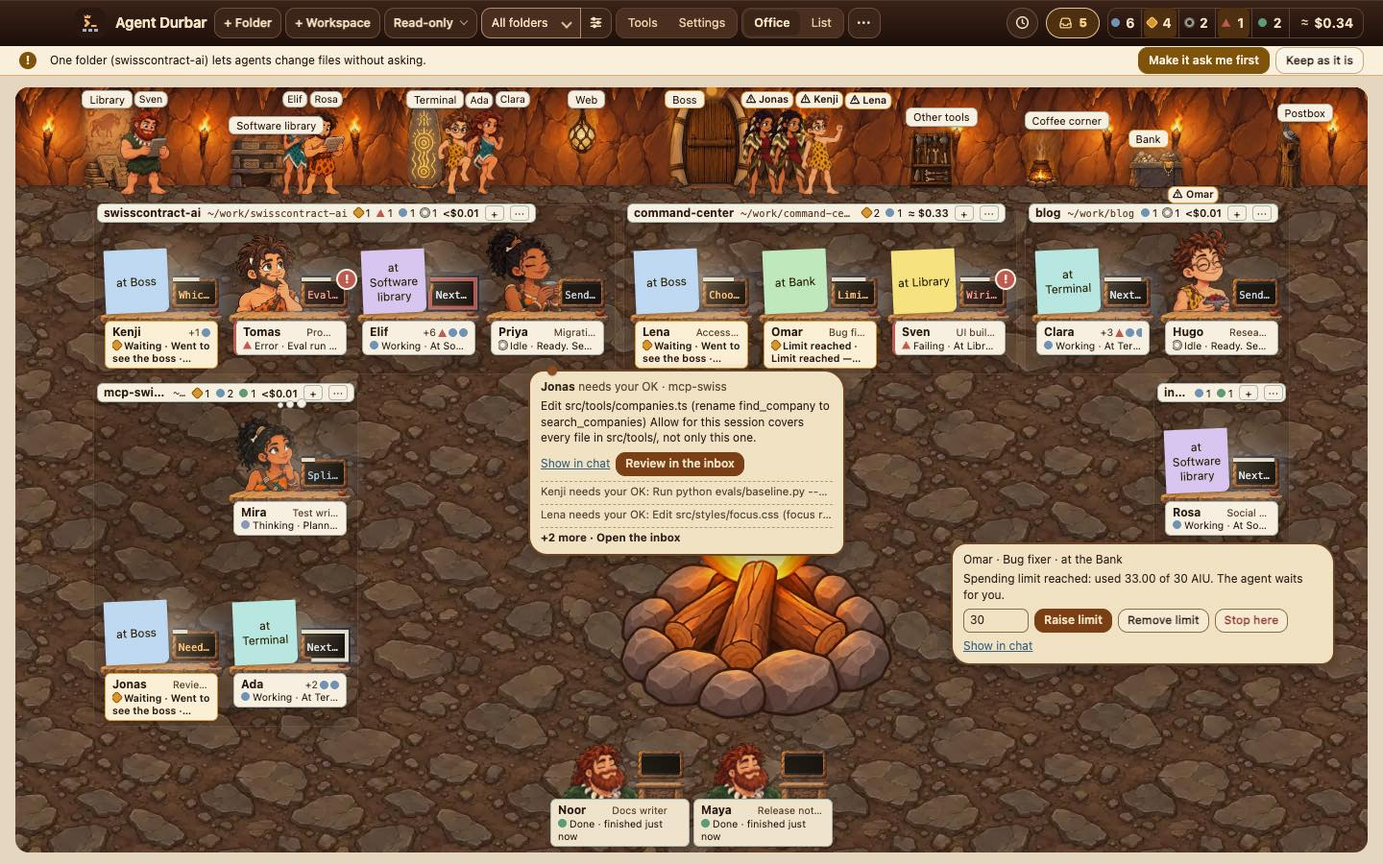
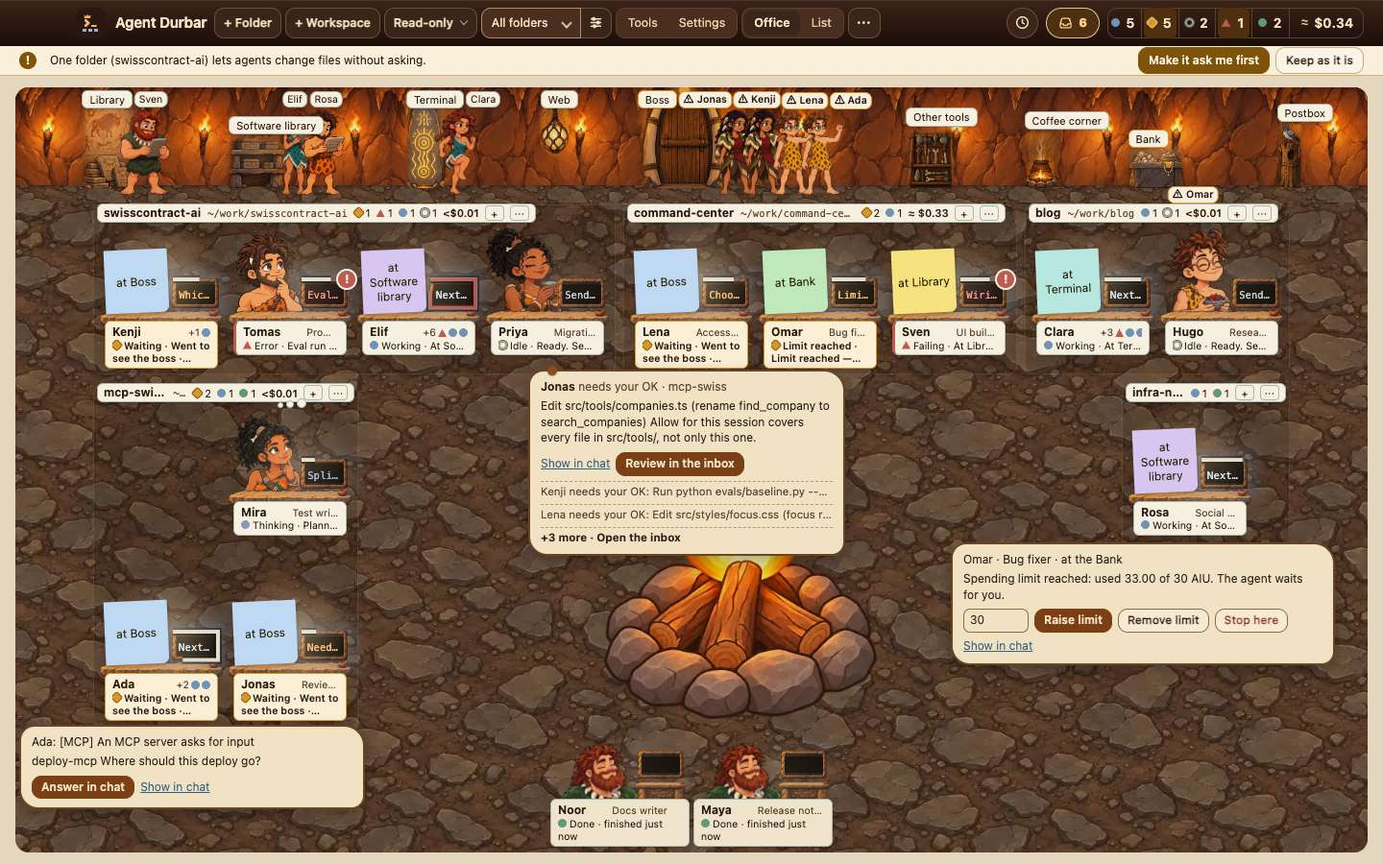
Cave circle: a sign keeps its + and menu inside it, rooms widen to their sign, the ladder judges the circle with its signs; reachability step in the moments driver (T174, review finding on #1764)

diff --git a/src/shared/realoffice-arrangements.ts b/src/shared/realoffice-arrangements.ts
@@ -1,7 +1,7 @@
 /** Spec 102 FR-227, FR-256 (T202, T203, T205): where the people sit. `rows` is `realLayout`, untouched; `aisles` is the Retro arcade hall:
  *  staggered aisles of cabinets in an integer pixel scale `g`. Pure, no DOM, nothing draws it yet (RA3). The numbers marked "provisional"
  *  come from the mockup and the art by eye and are replaced by measured ones (T201's `faceBox`, T207's frame sizes). */
-import { lobbyBand, lobbyRange, loungeRows, realLayout, rowGeom, deskStation, shownDesks, signWidth, signMin, splitLounge, BIG_MAX, helpH, helpCols, helpShown, FACE_U, PW, SR, PAD, ZGAP, STRIP, U_MAX, type DeskBox, type Layout, type RealAgent, type RealMeta, type RealModel, type RealState, type Rect, type ZoneBox } from './realoffice-layout';
+import { lobbyBand, lobbyRange, loungeRows, realLayout, rowGeom, deskStation, shownDesks, signWidth, signMin, signShortMin, splitLounge, BIG_MAX, helpH, helpCols, helpShown, FACE_U, PW, SR, PAD, ZGAP, STRIP, U_MAX, type DeskBox, type Layout, type RealAgent, type RealMeta, type RealModel, type RealState, type Rect, type ZoneBox } from './realoffice-layout';
 
 export const ARRANGEMENTS = ['rows', 'circle', 'aisles'] as const;
 export type Arrangement = (typeof ARRANGEMENTS)[number];
@@ -306,6 +306,13 @@ export function circleWith(model: RealModel, view: { w: number; h: number }, met
   const rowsOf = (i: number, j: number, w: number): number => runs(i, j).reduce((s, [p, q]) => s + Math.ceil((q - p) / w), 0);
   const sideH = (i: number, j: number, w: number, b: number): number => (j > i ? rowsOf(i, j, w) * b + (runs(i, j).length - 1) * ZGAP : 0);
   const zonesIn = (i: number, j: number): number => (j > i ? seats[j - 1].fx - seats[i].fx + 1 : 0);
+  /** the least width a folder's room may have so its sign keeps its + and menu (FR-231): the short sign's measured width (`signShortMin`), at most the whole sign's (`signMin`) */
+  const needW = (fx: number): number => { const f = folders[fx], s = signs && Object.prototype.hasOwnProperty.call(signs, f.id) ? signs[f.id] : { counts: 1 }; return signShortMin(s.counts) + 8; };
+  /** a zone of `c` desk columns holding folder `fx`, at desk width `Sw`: the desks' width, or the sign's if that is wider */
+  const zoneW = (fx: number, c: number, Sw: number): number => Math.max(c * Sw + 8, needW(fx));
+  /** the width of the top row over seats [i, j): its zones and the gaps between them; `sideBw` the width of a side over [i, j), `w` desks wide: the widest of its zones, never under the desks' */
+  const topW = (i: number, j: number, Sw: number): number => { const r = runs(i, j); return r.reduce((a, [p, q]) => a + zoneW(seats[p].fx, q - p, Sw), 0) + ZGAP * Math.max(0, r.length - 1); };
+  const sideBw = (i: number, j: number, w: number, Sw: number): number => runs(i, j).reduce((a, [p, q]) => Math.max(a, zoneW(seats[p].fx, Math.min(w, q - p), Sw)), w * Sw + 8);
   const rowOf = (u: number) => ({ zones: folders, n: k, Sw: (PW + SR) * u, scrH: 0, strip: 0 });
   const needOf = (withFocus: boolean): number => (withFocus ? CIRCLE_FOCUS_MIN.h + PAD : 0);
   /* the seats at unit u: the split into a left side, a top row and a right side (k >= 3: a ring, each of them used) that fits, the most even and narrowest first; null when none does */
@@ -318,8 +325,8 @@ export function circleWith(model: RealModel, view: { w: number; h: number }, met
         const hl = sideH(0, nl, wl, b);
         if (hl > avail) break;
         for (let nr = ring ? 1 : 0; nl + nr <= k - 1 || (k === 1 && nl + nr === 0); nr++) {
-          const nt = k - nl - nr, zt = zonesIn(nl, nl + nt);
-          if (Math.max(nt * Sw + zt * 8 + ZGAP * (zt - 1), ring ? (wl + wr) * Sw + 16 + 2 * ZGAP + CIRCLE_FOCUS_MIN.w : 0) > W - 2 * PAD) continue; /* the row, and the two sides with the focus between them, fit the width */
+          const nt = k - nl - nr;
+          if (Math.max(topW(nl, nl + nt, Sw), ring ? sideBw(0, nl, wl, Sw) + sideBw(nl + nt, k, wr, Sw) + 2 * ZGAP + CIRCLE_FOCUS_MIN.w : 0) > W - 2 * PAD) continue; /* the row, and the two sides with the focus between them, fit the width */
           const colH = Math.max(hl, sideH(nl + nt, k, wr, b)), used = b + ZGAP + Math.max(colH, needOf(withFocus));
           if (used > avail) continue;
           const score = -Math.abs(nl - nr) * 1e4 - colH - (wl + wr - 2) * 5e3;
@@ -338,8 +345,8 @@ export function circleWith(model: RealModel, view: { w: number; h: number }, met
     else { /* nothing fits at CIRCLE_U_MIN: as many in the top row as its width holds, the rest in two sides of the widest kind, and the floor scrolls */
       const Sw = (PW + SR) * u, b = rowGeom(meta, rowOf(u), u).bottom, ring = k >= 3;
       let nt = ring ? k - 2 : k;
-      const topW = (n: number): number => { const l = Math.ceil((k - n) / 2); return n * Sw + zonesIn(l, l + n) * 8 + ZGAP * (zonesIn(l, l + n) - 1); };
-      while (nt > 1 && topW(nt) > W - 2 * PAD) nt--;
+      const topAt = (n: number): number => { const l = Math.ceil((k - n) / 2); return topW(l, l + n, Sw); };
+      while (nt > 1 && topAt(nt) > W - 2 * PAD) nt--;
       const nl = ring ? Math.ceil((k - nt) / 2) : 0, nr = k - nt - nl;
       cfg = { nl, nt, nr, wl: 1, wr: 1, colH: Math.max(sideH(0, nl, 1, b), sideH(nl + nt, k, 1, b)) };
     }
@@ -350,11 +357,12 @@ export function circleWith(model: RealModel, view: { w: number; h: number }, met
   const spare = fits ? Math.max(0, Ho - Lb - used) : 0, y0 = Lb + spare / 3;
   const zones: ZoneBox[] = [], part: Record<number, number> = {};
   /** one zone of consecutive seats [i, j): `at` gives each seat's slot corner; the box is their union and the sign sits on its top edge */
-  const zoneOf = (i: number, j: number, at: (n: number) => { x: number; y: number }): void => {
+  const zoneOf = (i: number, j: number, at: (n: number) => { x: number; y: number }, wide?: { x: number; w: number }): void => {
     const f = folders[seats[i].fx], desks: DeskBox[] = [];
     for (let n = i; n < j; n++) { const p = at(n), d = deskStation(meta, seats[n].a, p.x, p.y, Sw, u, g, false, 0, 0, 0); d.slot.h = b; desks.push(d); }
-    const x = Math.min(...desks.map((d) => d.slot.x)) - 4, top = Math.min(...desks.map((d) => d.slot.y)), bot = Math.max(...desks.map((d) => d.slot.y + d.slot.h));
-    const zw = Math.max(...desks.map((d) => d.slot.x + d.slot.w)) + 4 - x;
+    let x = Math.min(...desks.map((d) => d.slot.x)) - 4, top = Math.min(...desks.map((d) => d.slot.y)), bot = Math.max(...desks.map((d) => d.slot.y + d.slot.h));
+    let zw = Math.max(...desks.map((d) => d.slot.x + d.slot.w)) + 4 - x;
+    if (wide) { x = wide.x; zw = wide.w; } /* the room is the sign's width where the desks are narrower (FR-231): the desks keep their place in it */
     const s = signs && Object.prototype.hasOwnProperty.call(signs, f.id) ? signs[f.id] : { name: f.id, path: '', counts: 1 };
     const sw = signWidth(s.name, s.path, s.counts, zw);
     const hands = desks.filter((d) => d.person && (d.state === 'waiting' || d.state === 'limit') && d.person.y < top + STRIP).map((d) => [d.person!.x, d.person!.x + d.person!.w * 0.6]);
@@ -364,31 +372,31 @@ export function circleWith(model: RealModel, view: { w: number; h: number }, met
     sx = Math.max(x + 4, Math.min(sx, x + zw - 4 - sw));
     zones.push({ id: f.id, part: (part[seats[i].fx] = (part[seats[i].fx] || 0) + 1), box: { x, y: top + 2, w: zw, h: bot - top - 2 }, sign: { x: sx, y: top + 1, w: sw, h: 20 }, desks, ...(signMin(s.counts) > zw - 8 ? { signShort: true } : {}) });
   };
-  const bw = (w: number): number => w * Sw + 8, ringed = k >= 3 && withFocus;
-  const rowW = k ? cfg!.nt * Sw + zonesIn(cfg!.nl, cfg!.nl + cfg!.nt) * 8 + ZGAP * (zonesIn(cfg!.nl, cfg!.nl + cfg!.nt) - 1) : 0;
+  const ringed = k >= 3 && withFocus;
+  const rowW = k ? topW(cfg!.nl, cfg!.nl + cfg!.nt, Sw) : 0, bwL = k ? sideBw(0, cfg!.nl, cfg!.wl, Sw) : 0, bwR = k ? sideBw(cfg!.nl + cfg!.nt, k, cfg!.wr, Sw) : 0;
   /* the ring spans the row, or the two sides with the focus between them when that is wider (a ring of a few people); the sides stand at its two ends, the row in the middle */
-  const span = ringed ? Math.max(rowW, (cfg!.wl + cfg!.wr) * Sw + 16 + 2 * ZGAP + CIRCLE_FOCUS_MIN.w) : rowW, rx0 = PAD + (W - 2 * PAD - span) / 2, rx1 = rx0 + span;
+  const span = ringed ? Math.max(rowW, bwL + bwR + 2 * ZGAP + CIRCLE_FOCUS_MIN.w) : rowW, rx0 = PAD + (W - 2 * PAD - span) / 2, rx1 = rx0 + span;
   if (k) {
     const { nl, nt, nr, wl, wr } = cfg!, yc = y0 + b + ZGAP;
     /* the left side: the first seat at its foot, upwards; a seat's column snakes with its row (outer, then inner, then outer again) */
     let yb = yc + sideH(0, nl, wl, b), row = 0;
     for (const [i, j] of runs(0, nl)) {
       const rows = Math.ceil((j - i) / wl), r0 = row; row += rows;
-      zoneOf(i, j, (n) => { const r = Math.floor((n - i) / wl), c0 = (n - i) % wl, c = (r0 + r) % 2 ? wl - 1 - c0 : c0; return { x: rx0 + 4 + c * Sw, y: yb - (r + 1) * b }; });
+      zoneOf(i, j, (n) => { const r = Math.floor((n - i) / wl), c0 = (n - i) % wl, c = (r0 + r) % 2 ? wl - 1 - c0 : c0; return { x: rx0 + 4 + c * Sw, y: yb - (r + 1) * b }; }, { x: rx0, w: bwL });
       yb -= rows * b + ZGAP;
     }
     let x = rx0 + (span - rowW) / 2;
-    for (const [i, j] of runs(nl, nl + nt)) { const x0 = x; zoneOf(i, j, (n) => ({ x: x0 + 4 + (n - i) * Sw, y: y0 })); x += (j - i) * Sw + 8 + ZGAP; }
+    for (const [i, j] of runs(nl, nl + nt)) { const x0 = x, zw = zoneW(seats[i].fx, j - i, Sw); zoneOf(i, j, (n) => ({ x: x0 + (zw - (j - i) * Sw) / 2 + (n - i) * Sw, y: y0 }), { x: x0, w: zw }); x += zw + ZGAP; }
     let yr = yc; row = 0;
     for (const [i, j] of runs(nl + nt, k)) {
       const rows = Math.ceil((j - i) / wr), r0 = row, y1 = yr; row += rows;
-      zoneOf(i, j, (n) => { const r = Math.floor((n - i) / wr), c0 = (n - i) % wr, c = (r0 + r) % 2 ? wr - 1 - c0 : c0; return { x: rx1 - bw(wr) + 4 + c * Sw, y: y1 + r * b }; });
+      zoneOf(i, j, (n) => { const r = Math.floor((n - i) / wr), c0 = (n - i) % wr, c = (r0 + r) % 2 ? wr - 1 - c0 : c0; return { x: rx1 - bwR + 4 + c * Sw, y: y1 + r * b }; }, { x: rx1 - bwR, w: bwR });
       yr += rows * b + ZGAP;
     }
   }
   const lb = lobbyBand(meta, model.places, W, Lb);
   const height = fits ? H0 : Math.ceil(Lb + used + PAD + R);
-  const fx0 = ringed ? rx0 + bw(cfg!.wl) + ZGAP : PAD, fx1 = ringed ? rx1 - bw(cfg!.wr) - ZGAP : W - PAD, fy = y0 + b + ZGAP;
+  const fx0 = ringed ? rx0 + bwL + ZGAP : PAD, fx1 = ringed ? rx1 - bwR - ZGAP : W - PAD, fy = y0 + b + ZGAP;
   const lay: Layout = { u, big: false, lobbyH: Lb, floorH: height - Lb, width: W, height, scroll: !fits || Ho + R > H0 + 0.5, faceH: FACE_U * u, zones, fixtures: lb.fixtures, floorStrip: lb.floorStrip, helpRows: 0 };
   /* the focus box, when it holds `CIRCLE_FOCUS_MIN`: with every agent in the lounge, or the ring dropped it to fit, there is none (never a negative height) */
   const focus: Rect = { x: fx0, y: fy, w: fx1 - fx0, h: fits ? Ho - PAD - fy : Math.max(need - PAD, (cfg ? cfg.colH : 0)) };
@@ -399,11 +407,11 @@ export function circleWith(model: RealModel, view: { w: number; h: number }, met
 export const circleLayout = (model: RealModel, view: { w: number; h: number }, meta: RealMeta, signs?: Record<string, { name: string; path: string; counts: number }>): Layout => circleWith(model, view, meta, signs);
 
 /** FR-230: whether `id` fits this floor, on the count of agents only; `leftAt` (the count it last fell back at) makes it return only with two agents fewer, so a seat count at the edge does not flip the room. `rows` always fits. Pure. */
-export function arrangementFits(id: Arrangement, model: RealModel, view: { w: number; h: number }, meta: RealMeta, leftAt?: number): boolean {
+export function arrangementFits(id: Arrangement, model: RealModel, view: { w: number; h: number }, meta: RealMeta, leftAt?: number, signs?: Record<string, { name: string; path: string; counts: number }>): boolean {
   if (id === 'rows') return true;
   const n = model.folders.reduce((s, f) => s + f.agents.length, 0);
   if (leftAt !== undefined && n > leftAt - 2) return false;
-  return !layoutFor(id, model, view, meta).scroll;
+  return !layoutFor(id, model, view, meta, signs).scroll; /* with the signs: a ring whose signs the rooms cannot hold whole (FR-231) does not fit */
 }
 
 /** FR-228's one seam: the arrangement a world names picks the function. `rows` is `realLayout` and nothing else (T167: byte-identical). */
@@ -414,7 +422,7 @@ export function layoutFor(arrangement: Arrangement, model: RealModel, view: { w:
 /** FR-230 (owner, 2026-11-14 13:10 UTC): the ladder `circle` to `rows`. A `circle` that does not fit this floor at the face floor (`arrangementFits`; `leftAt` holds it off until two agents fewer) draws `rows`, so no floor scrolls
  *  with 15 agents because of the arrangement; every other id runs as `layoutFor` says. `ran` is the arrangement that drew. Pure. */
 export function layoutWithFallback(arrangement: Arrangement, model: RealModel, view: { w: number; h: number }, meta: RealMeta, signs?: Record<string, { name: string; path: string; counts: number }>, leftAt?: number): { lay: Layout; ran: Arrangement } {
-  if (arrangement === 'circle' && !arrangementFits('circle', model, view, meta, leftAt)) return { lay: realLayout(model, view, meta, signs), ran: 'rows' };
+  if (arrangement === 'circle' && !arrangementFits('circle', model, view, meta, leftAt, signs)) return { lay: realLayout(model, view, meta, signs), ran: 'rows' };
   return { lay: layoutFor(arrangement, model, view, meta, signs), ran: arrangement };
 }
 

diff --git a/scripts/test-realoffice-circle.ts b/scripts/test-realoffice-circle.ts
@@ -3,7 +3,7 @@
 import * as assert from 'assert';
 import * as fs from 'fs';
 import * as path from 'path';
-import { realLayout, sortDesks, splitLounge, type RealMeta, type RealModel, type RealAgent, type RealState, type Rect, type Layout } from '../src/shared/realoffice-layout';
+import { realLayout, signMin, signShortMin, sortDesks, splitLounge, type RealMeta, type RealModel, type RealAgent, type RealState, type Rect, type Layout } from '../src/shared/realoffice-layout';
 import { ARRANGEMENTS, FACE_FLOOR, arrangementFits, circleLayout, circleWith, layoutFor, layoutWithFallback, isArrangement, monitorProblem, CIRCLE_FOCUS_MIN } from '../src/shared/realoffice-arrangements';
 
 process.exitCode = 1;
@@ -76,9 +76,9 @@ for (const [W, H] of SIZES) for (const f of [1, 4, 15]) for (const lounge of [0,
   cases++;
 }
 // ---- 15 agents fit both rooms with no scroll, at 24 px or more, in 1..13 folders; 14 and 15 folders [KNOWN GAP] (FR-229): pinned, so a change shows ----
-const GAP = [[15], [14, 15]]; /* the folder counts that scroll at 24.0 px: 1440x900, 1280x800 (spec 102 Changes 2026-11-14) */
+const GAP = [[12, 13, 14, 15], [10, 11, 12, 13, 14, 15]]; /* the folder counts that scroll at 24.0 px with every sign three counts wide (SIGNS): 1440x900, 1280x800 (spec 102 FR-231: a room is as wide as its sign's short form; with one count each it is [15] and [14, 15], as before) */
 ROOMS.forEach((s) => { for (let f = 1; f <= 15; f++) assert.strictEqual(mk(15, f, SIZES[s][0], SIZES[s][1]).scroll, GAP[s].includes(f), `15 agents in ${f} folders at ${NAMES[s]}: scroll must be ${GAP[s].includes(f)} (the known gap lists ${GAP[s]})`); });
-for (const s of ROOMS) for (let f = 1; f <= 13; f++) {
+for (const s of ROOMS) for (let f = 1; f <= 15 - GAP[s].length; f++) {
   const [W, H] = SIZES[s], L = mk(15, f, W, H);
   assert.ok(!L.scroll, `15 agents fit ${NAMES[s]} (${f} folders): no scroll`);
   assert.ok(L.faceH >= FACE_FLOOR, `15 agents at ${NAMES[s]}: face ${L.faceH} px, floor ${FACE_FLOOR}`);
@@ -148,6 +148,39 @@ function circleOffenders(manifests: Array<{ file: string; text: string }>): stri
   assert.ok(!names('{"arrangement":"rows"}') && !names('{}'), 'rows and no key are not circle');
   assert.throws(() => names('{"arrangement": circle}', 'worlds/x/world.json'), /worlds\/x\/world\.json is not valid JSON/, 'a manifest that does not parse fails by its path');
 }
+// ---- FR-231 (reviewer's finding on #1764): a sign in the circle is never narrower than its short form (`signShortMin`), and it lies inside its room. Labels: signw, signin, signshort. ----
+const signProblems = (L: Layout, counts: number): string[] => {
+  const out = new Set<string>();
+  for (const z of L.zones) {
+    if (z.sign.w < signShortMin(counts) - 0.01) out.add('signw'); /* narrower than the least that keeps + and the menu inside it */
+    if (!inside(z.sign, { x: z.box.x, y: z.box.y - 2, w: z.box.w, h: z.box.h + 2 })) out.add('signin'); /* the sign sticks out of its room: a neighbour or the focus box could cover it */
+    if ((z.box.w - 8 >= signMin(counts)) === !!z.signShort) out.add('signshort'); /* the whole sign where its room holds signMin, the short form only where it does not */
+  }
+  return [...out];
+};
+{
+  const META_CAVE = { ...readJson('worlds', 'cave', 'world.json'), ...readJson('sets', 'prehistoric', 'set.json') } as unknown as RealMeta;
+  let n = 0;
+  for (const [wn, meta] of [['Photo', META], ['Cave', META_CAVE]] as Array<[string, RealMeta]>) for (const [W, H] of SIZES.slice(0, 2)) for (const agents of [4, 8, 15]) for (const f of [1, 2, 3, 4, 5, 6, 8, 9, 10, 11, 12, 13, 14, 15]) for (const counts of [1, 2, 3]) {
+    if (f > agents) continue;
+    const m = model(agents, f), sg = Object.fromEntries(Array.from({ length: f }, (_, i) => ['f' + i, { name: 'project-' + i, path: '~/work/long/path/to/project-' + i, counts }]));
+    const L = circleLayout(m, { w: W, h: H }, meta, sg), r = layoutWithFallback('circle', m, { w: W, h: H }, meta, sg);
+    if (r.ran === 'circle') { assert.deepStrictEqual(signProblems(r.lay, counts), [], `${wn} ${agents} agents in ${f} folders, ${counts} counts at ${W}x${H}: every sign holds its short form and lies in its room`); n++; }
+    else assert.ok(L.scroll || !arrangementFits('circle', m, { w: W, h: H }, meta, undefined, sg), `${wn} ${agents} in ${f}, ${counts} counts at ${W}x${H}: rows only where the circle cannot hold its signs`);
+    assert.strictEqual(r.ran === 'circle', !L.scroll, `${wn} ${agents} in ${f}, ${counts} counts at ${W}x${H}: the ladder keeps the circle exactly where it does not scroll`);
+  }
+  assert.ok(n > 50, `the sign check ran on ${n} circle layouts`);
+  const m = model(15, 9), sg = SIGNS(9), L = circleLayout(m, { w: 1440, h: 797 }, META_CAVE, sg);
+  assert.deepStrictEqual(signProblems(L, 3), [], 'the layout the sign mutants damage is clean');
+  const kill = (label: string, mut: (x: Layout) => void): void => { const x = clone(L); mut(x); assert.ok(signProblems(x, 3).includes(label), `sign mutant not killed at label "${label}"`); };
+  kill('signw', (x) => { x.zones[1].sign.w = 118; }); /* the 118 px sign of the review: its + and menu fall outside it */
+  kill('signin', (x) => { x.zones[1].sign.x = x.zones[1].box.x + x.zones[1].box.w - 20; });
+  kill('signshort', (x) => { x.zones[1].signShort = !x.zones[1].signShort; });
+  // the cause (mutant of the engine): zones as wide as their desks only, the circle before FR-231, cuts a sign below its short form
+  const sw = (x: Layout): number => Math.min(...x.zones.map((z) => z.sign.w));
+  assert.ok(sw(L) >= signShortMin(3), 'with the rooms the smallest sign is whole');
+  console.log(`circle signs: smallest sign ${sw(L).toFixed(0)} px at 15 agents in 9 folders at 1440x900 (short form needs ${signShortMin(3)} px)`);
+}
 // ---- the ladder circle -> rows (FR-230, owner 2026-11-14 13:10 UTC): 15 agents in 14 and in 15 one-agent folders fall back to rows, no scroll, nothing off the stage ----
 {
   const META_CAVE = { ...readJson('worlds', 'cave', 'world.json'), ...readJson('sets', 'prehistoric', 'set.json') } as unknown as RealMeta;
@@ -163,24 +196,27 @@ function circleOffenders(manifests: Array<{ file: string; text: string }>): stri
   };
   const seen: string[] = [];
   for (const [name, meta] of [['Photo meta', META], ['Cave meta', META_CAVE]] as Array<[string, RealMeta]>) SIZES.slice(0, 2).forEach(([W, H], s) => {
-    for (const f of [1, 4, 8, 12, 13, 14, 15]) {
-      const m = model(15, f), v = { w: W, h: H }, fits = arrangementFits('circle', m, v, meta);
+    for (const f of [1, 4, 8, 9, 10, 11, 12, 13, 14, 15]) {
+      const m = model(15, f), v = { w: W, h: H }, fits = arrangementFits('circle', m, v, meta, undefined, SIGNS(f));
       const r = layoutWithFallback('circle', m, v, meta, SIGNS(f));
       assert.deepStrictEqual(ladder(r, W, fits), [], `${name} ${NAMES[s]}, 15 agents in ${f} folders: ladder ${fits ? 'keeps circle' : 'falls back to rows'}, no scroll, nothing off the stage`);
       assert.strictEqual(fits, !circleLayout(m, v, meta, SIGNS(f)).scroll, `${name} ${NAMES[s]} ${f} folders: fits means the circle does not scroll`);
-      if (f >= 14) seen.push(`${name} ${NAMES[s]} ${f}: ${r.ran}`);
+      if (f >= 9) seen.push(`${name} ${NAMES[s]} ${f}: ${r.ran}`);
       if (!fits) {
         assert.ok(ladder({ lay: circleLayout(m, v, meta, SIGNS(f)), ran: 'circle' }, W, fits).includes('scroll'), `mutant (ladder removed): the circle's scroll is caught at ${name} ${NAMES[s]} ${f} folders`);
         assert.ok(ladder({ lay: realLayout(m, v, meta, SIGNS(f)), ran: 'circle' }, W, fits).includes('ran'), `mutant (circle forced): caught by its ran label at ${name} ${NAMES[s]} ${f} folders`);
       } else assert.ok(ladder({ lay: realLayout(m, v, meta, SIGNS(f)), ran: 'rows' }, W, fits).includes('ran'), `mutant (rows always): caught by its ran label at ${name} ${NAMES[s]} ${f} folders`);
     }
   });
-  for (const want of ['Photo meta 1440x900 15: rows', 'Photo meta 1440x900 14: circle', 'Cave meta 1280x800 14: rows', 'Cave meta 1280x800 15: rows', 'Cave meta 1440x900 14: circle', 'Cave meta 1440x900 15: circle']) assert.ok(seen.includes(want), `the measured edge: ${want}`); /* Photo's meta scrolls at 15 folders at 1440x900, the Cave's does not (its desk is smaller); both fall back at 14 and 15 at 1280x800 */
-  console.log('ladder at 14 and 15 folders: ' + seen.join('; '));
+  const want: string[] = [];
+  for (const [name, edge] of [['Photo meta', [12, 10]], ['Cave meta', [14, 10]]] as Array<[string, number[]]>) edge.forEach((e, s) => { for (let f = 9; f <= 15; f++) want.push(`${name} ${NAMES[s]} ${f}: ${f >= e ? 'rows' : 'circle'}`); });
+  for (const w of want) assert.ok(seen.includes(w), `the measured edge (FR-231, every sign three counts wide): ${w}`); /* the signs' rooms move the edge: Photo's meta from 15 folders to 12 (1440x900), the Cave's from 15 to 14; both from 14 to 10 at 1280x800 */
+  assert.strictEqual(seen.length, want.length, 'no other folder count was measured');
+  console.log('ladder at 9..15 folders (every sign three counts wide): ' + seen.join('; '));
   // the hold: back only with two agents fewer than it left at
-  const m15 = model(15, 14), m14 = model(14, 14), m13 = model(13, 13), v = { w: 1280, h: 697 };
-  assert.strictEqual(layoutWithFallback('circle', m13, v, META_CAVE, SIGNS(13), 15).ran, 'circle', 'left at 15, back at 13: two fewer');
-  assert.strictEqual(layoutWithFallback('circle', m14, v, META_CAVE, SIGNS(14), 15).ran, 'rows', 'left at 15, still rows at 14: one fewer is not enough');
+  const m15 = model(15, 14), m14 = model(14, 4), m13 = model(13, 4), v = { w: 1280, h: 697 };
+  assert.strictEqual(layoutWithFallback('circle', m13, v, META_CAVE, SIGNS(4), 15).ran, 'circle', 'left at 15, back at 13: two fewer');
+  assert.strictEqual(layoutWithFallback('circle', m14, v, META_CAVE, SIGNS(4), 15).ran, 'rows', 'left at 15, still rows at 14: one fewer is not enough');
   assert.strictEqual(layoutWithFallback('circle', m15, v, META_CAVE, SIGNS(15), undefined).ran, 'rows', 'no hold: 15 agents in 14 folders is rows');
   assert.strictEqual(JSON.stringify(layoutWithFallback('rows', m15, v, META_CAVE, SIGNS(14)).lay), JSON.stringify(realLayout(m15, v, META_CAVE, SIGNS(14))), 'rows is untouched by the ladder');
 }

diff --git a/scripts/shots-097-moments.js b/scripts/shots-097-moments.js
@@ -267,6 +267,19 @@ module.exports = async (ctx) => {
       await must(`!!document.querySelector('#chat .note.elicit')`, 'the card in the chat');
       assert.ok(await js(`document.getElementById('chat').querySelector('.note.elicit').textContent`).then((t) => /An MCP server asks for input/.test(t)), `${tag}: the chat holds the flat card`);
     }
+    // ---- spec 102 T174 (review finding on #1764, Changes 2026-11-15): every folder sign's + and folder-actions buttons are inside the sign and the topmost thing at their centre (not clipped by the circle's narrow rooms) ----
+    if (run('signreach') && (world === 'cave' || world === 'photo')) {
+      const READ = `(()=>{const R=e=>e.getBoundingClientRect(),out=[];for(const g of document.querySelectorAll('#stage .ro-sign:not(.ro-stag)')){const q=R(g);for(const b of g.querySelectorAll('[data-newsess],[data-foldermenu]')){const r=R(b),e=document.elementFromPoint(r.left+r.width/2,r.top+r.height/2);out.push({sign:g.textContent.trim().slice(0,14),w:Math.round(q.width),ok:r.width>0&&r.left>=q.left-0.5&&r.right<=q.right+0.5&&r.top>=q.top-0.5&&r.bottom<=q.bottom+0.5&&!!e&&(e===b||b.contains(e))})}}return out})()`;
+      for (const n of ['15', '8']) {
+        await H.load({ w, h, query: q(world, { sim: n }), ready: REAL, settle: true });
+        const rd = await js(READ);
+        assert.ok(rd.length >= 2, `${tag}: ${n} agents: the signs' buttons were found (${rd.length})`);
+        assert.deepStrictEqual(rd.filter((b) => !b.ok), [], `${tag}: ${n} agents: every sign's + and folder-actions buttons are inside the sign and reachable (elementFromPoint), none clipped`);
+        /* the mutant of this check: a sign cut to 60 px (what the circle's narrow room did) must fail it, so the check can fail */
+        await js(`(()=>{const g=document.querySelector('#stage .ro-sign:not(.ro-stag) [data-newsess]').closest('.ro-sign');g.classList.add('short');g.style.maxWidth='60px'})()`);
+        assert.ok((await js(READ)).some((b) => !b.ok), `${tag}: mutant (a sign cut to 60 px) is caught by the reachability check`);
+      }
+    }
     // ---- T139: reduced motion and forced colours ----
     if (run('emulation')) {
       await emulate([{ name: 'forced-colors', value: 'active' }], async () => {

diff --git a/src/shared/realoffice-layout.ts b/src/shared/realoffice-layout.ts
@@ -443,6 +443,9 @@ export const signWidth = (name: string, path: string, counts: number, zw: number
 /** FR-356 (bug #1392): the narrowest whole sign: its name cut to 3 letters, no path, the counts, the cost (`counts` counts it, as `signWidth`), + and menu. Measured 183 px with two
  *  counts and a cost (the cave at 1280x800, 2026-11-09), plus 7 px for a wider font (#1079). A room narrower than this takes the short sign (FR-256's: no cost, no path). */
 export const signMin = (counts: number): number => 100 + 30 * counts;
+/** Spec 102 FR-231 (reviewer's finding on #1764): the narrowest sign that keeps its + and folder-actions buttons inside it and reachable: the short form (name cut to 3 letters, counts, + and menu). Measured in the Cave at 1440x900: with
+ *  three counts the buttons are clipped from 150 px down, the sign `infra-notes` needs 136 px with two; 77 + 30 per count (7 px for a wider font, as `signMin`). A room never gives a sign less. */
+export const signShortMin = (counts: number): number => 77 + 30 * counts;
 
 /** FR-019: the whole office: pure, no DOM. `signs` gives each folder's sign text lengths (name, path, number of count chips). */
 export function realLayout(model: RealModel, viewport: { w: number; h: number }, meta: RealMeta, signs?: Record<string, { name: string; path: string; counts: number }>): Layout {

diff --git a/changelog.d/102-174-cave-circle.md b/changelog.d/102-174-cave-circle.md
@@ -1,1 +1,1 @@
-- **The Prehistoric cave seats its folders round a campfire** (spec 102 T174, T242, FR-230, FR-234, issue #1402): the cave's folder desks stand in a ring round a painted still flame (a picture, no motion, hidden from screen readers and not focusable). Where the ring does not fit at the smallest face (for example 15 agents in 14 or 15 one-agent folders at 1280x800) the room draws the rows, so no window scrolls with 15 agents, and the circle returns once two agents fewer are there. The pack check now accepts the circle with its `focus.webp`; the list of known world clashes is gone because the cave and the Photo office no longer share an arrangement. Tested with the layout, pack, asset and catalogue checks, each with mutants; not yet looked at by Paco, and not run on Windows or Linux.
+- **The Prehistoric cave seats its folders round a campfire** (spec 102 T174, T242, FR-230, FR-234, issue #1402): the cave's folder desks stand in a ring round a painted still flame (a picture, no motion, hidden from screen readers and not focusable). Where the ring does not fit at the smallest face (for example 15 agents in 14 or 15 one-agent folders at 1280x800) the room draws the rows, so no window scrolls with 15 agents, and the circle returns once two agents fewer are there. The pack check now accepts the circle with its `focus.webp`; the list of known world clashes is gone because the cave and the Photo office no longer share an arrangement. Tested with the layout, pack, asset and catalogue checks, each with mutants; not yet looked at by Paco, and not run on Windows or Linux. Review fix: a folder sign in the circle keeps its + and menu buttons inside it (a room is now as wide as its sign's short form), and the circle falls back to the rows where the signs do not fit: with three counts per sign it holds up to 13 folders at 1440x900 and 9 at 1280x800 with 15 agents.
